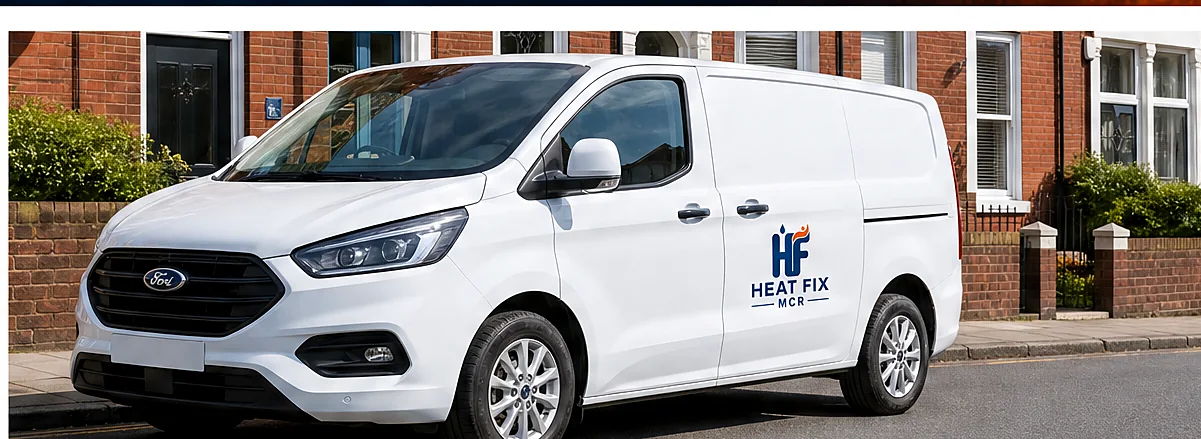
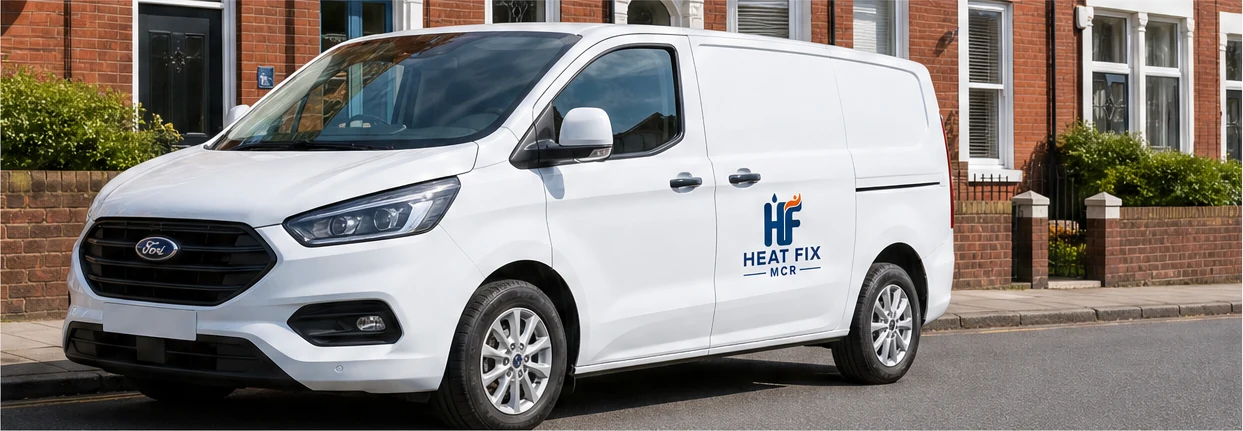
HeatFix: embers off the hero, About page rebuilt to the artwork
Three things he asked for.

1. "Book a slot online" is gone from the contact block on every page.

2. The embers are off the home hero. The photograph had the ember wash
   baked in, so it was corrected rather than swapped: per-column white
   balance measured off the flat kitchen wall, the sparks replaced from
   their surroundings, then the bloom taken out at two scales and what
   warmth remained capped to the level of the neutral wall. Red-over-blue
   on the right side goes from +57 to -5. The chrome towel rail keeps its
   definition — an earlier, harder pass flattened it and was thrown away.

3. About page rebuilt against the drawing, every band measured off it:
     - Ember band, WHO WE ARE, pill band and the navy block are within a
       few pixels of the heights drawn
     - The three pill icons are lifted straight out of his artwork with the
       white keyed to transparency, so the handshake is his handshake. It
       replaces the clock I had substituted when I could not draw one that
       read at that size
     - Van photograph re-cut from the artwork: no red bleed along the top,
       wheels no longer clipped, 2.88:1 as drawn
     - Figures are the four he drew: 15+ years, 4,000+ jobs, 5.0 stars,
       24/7 cover
     - The orange call band is gone; it is not in the drawing
     - On a phone the ember artwork now crops rather than shrinking, so the
       logo stays readable instead of collapsing to 100px
[…]

diff --git a/templates/heatfix-about.html b/templates/heatfix-about.html
@@ -29,7 +29,7 @@
 "address":{"@type":"PostalAddress","addressLocality":"Manchester","addressRegion":"Greater Manchester","addressCountry":"GB"}}
 </script>
 </head>
-<body>
+<body class="abx">
 <nav class="hfnav" id="nav">
   <div class="hfnav-in">
     <a class="hfbrand" href="/" aria-label="Heat Fix Mcr Limited — home">
@@ -76,7 +76,7 @@
         workmanship and service you can count on.</p>
     </div>
     <figure style="margin:0" data-fx="reveal" data-fx-delay="110">
-      <img src="../assets/heatfix/ab-van.webp" alt="The Heat Fix Mcr van parked outside a Manchester terrace" width="1201" height="439" loading="lazy">
+      <img src="../assets/heatfix/ab-van.webp" alt="The Heat Fix Mcr van parked outside a Manchester terrace" width="1243" height="431" loading="lazy">
     </figure>
   </div>
 </section>
@@ -84,15 +84,15 @@
 <div class="hfblue">
   <div class="wrap hfblue-in" data-fx="stagger" data-fx-step="70">
     <div class="hfpill">
-      <svg viewBox="0 0 48 48"><path d="M24 5l14 5v12c0 10-6.6 17-14 19-7.4-2-14-9-14-19V10z"/><path d="M24 17c-2.4 3.4-3.8 5-3.8 7.2a3.8 3.8 0 0 0 7.6 0c0-2.2-1.4-3.8-3.8-7.2z"/></svg>
+      <img src="../assets/heatfix/ic-gassafe.webp" alt="" width="172" height="290" loading="lazy">
       <span><b>Gas Safe</b><small>Every engineer fully registered</small></span>
     </div>
     <div class="hfpill">
-      <svg viewBox="0 0 48 48"><path d="M24 43s13-11.4 13-21a13 13 0 1 0-26 0c0 9.6 13 21 13 21z"/><circle cx="24" cy="21" r="5"/></svg>
+      <img src="../assets/heatfix/ic-local.webp" alt="" width="184" height="278" loading="lazy">
       <span><b>Local</b><small>Proudly Manchester, homegrown</small></span>
     </div>
     <div class="hfpill">
-      <svg viewBox="0 0 48 48"><circle cx="24" cy="24" r="17"/><path d="M24 14v10l7 4" stroke-linecap="round" stroke-linejoin="round"/></svg>
+      <img src="../assets/heatfix/ic-reliable.webp" alt="" width="288" height="242" loading="lazy">
       <span><b>Reliable</b><small>We turn up when we say</small></span>
     </div>
   </div>
@@ -100,17 +100,10 @@
 
 <div class="hfstats">
   <div class="wrap hfstats-in" data-fx="stagger" data-fx-step="60">
-    <div><b>627019</b><small>Gas Safe registered</small></div>
-    <div><b>61</b><small>Areas covered</small></div>
-    <div><b>Same day</b><small>Call-outs where we can</small></div>
-    <div><b>Fixed</b><small>Price agreed in writing</small></div>
-  </div>
-</div>
-
-<div class="hfband">
-  <div class="hfband-in">
-    <p>Boiler out, or something leaking? Get us out today.</p>
-    <a class="hfbtn navyfill" href="tel:+447890452629">Call 07890 452629</a>
+    <div><b>15+</b><small>Years experience</small></div>
+    <div><b>4,000+</b><small>Jobs completed</small></div>
+    <div><b>5.0</b><small>Star rating</small></div>
+    <div><b>24/7</b><small>Emergency cover</small></div>
   </div>
 </div>
 <footer class="hffoot">
@@ -118,7 +111,6 @@
     <b>Heat Fix Mcr Limited</b>
     <p>Gas Safe registered No. 627019 &nbsp;·&nbsp; Manchester &amp; Stockport &nbsp;·&nbsp;
       <a href="tel:+447890452629">07890 452629</a></p>
-    <img src="../assets/heatfix/logo-mark.webp" alt="" width="796" height="603" onerror="this.remove()">
   </div>
 </footer>
 <script>

diff --git a/assets/css/heatfix.css b/assets/css/heatfix.css
@@ -823,3 +823,43 @@ h3{font-size:clamp(1.15rem,2.4vw,1.5rem);letter-spacing:-.015em}
 .hffoot a{color:#bcd0e6}
 .hffoot a:hover{color:#fff}
 .hffoot img{width:78px;height:auto;margin:16px auto 0}
+
+/* ============================================================================
+   ABOUT — every dimension below is measured off the approved artwork at the
+   viewport it was drawn for (2336px wide artwork ≈ a 1440px screen).
+   Scoped to .abx so no other page moves.
+   ========================================================================== */
+.abx .hfember-band{padding-top:clamp(76px,7.1vw,102px)}
+.abx .hfember-txt{padding:clamp(4px,.42vw,6px) 26px clamp(7px,.56vw,8px)}
+.abx .hfember-txt h1{font-size:clamp(1.28rem,2.43vw,2.2rem);line-height:1;letter-spacing:-.01em}
+.abx .hfember-txt .kick{font-size:clamp(.86rem,1.11vw,1rem);margin-top:clamp(7px,.7vw,10px)}
+
+.abx .hfwho{padding:clamp(12px,1.05vw,15px) 0 clamp(8px,.7vw,10px)}
+.abx .hfwho-in{max-width:1440px;padding:0 clamp(20px,3.5vw,50px);gap:clamp(24px,2.8vw,40px);
+  align-items:start}
+@media(min-width:900px){.abx .hfwho-in{grid-template-columns:minmax(0,.707fr) minmax(0,1fr)}}
+.abx .hfwho > .hfwho-in > div:first-child{padding-top:clamp(18px,2.4vw,34px)}
+.abx .hfwho h2{font-size:clamp(1.6rem,3.12vw,2.8rem);margin:0}
+.abx .hfwho p{font-size:clamp(.95rem,1.18vw,1.06rem);line-height:1.6;margin-top:clamp(10px,1vw,14px);
+  max-width:46ch}
+.abx .hfwho figure img{aspect-ratio:2.883;object-fit:cover}
+
+.abx .hfblue{padding:clamp(10px,.85vw,12px) 0}
+.abx .hfblue-in{max-width:1440px;padding:0 clamp(20px,4.3vw,62px);gap:clamp(14px,4.3vw,62px)}
+.abx .hfpill{padding:clamp(10px,1.05vw,15px) clamp(14px,1.7vw,24px);gap:clamp(12px,1.5vw,21px);
+  min-height:clamp(64px,6.75vw,97px)}
+.abx .hfpill img{height:clamp(40px,4.6vw,66px);width:auto;flex:none;display:block}
+.abx .hfpill b{font-size:clamp(1.05rem,1.8vw,1.62rem);letter-spacing:-.005em}
+.abx .hfpill small{font-size:clamp(.8rem,.97vw,.875rem);margin-top:2px}
+
+.abx .hfstats{padding:clamp(10px,.9vw,13px) 0 0}
+.abx .hfstats b{font-size:clamp(1.5rem,3.47vw,3.12rem);line-height:1}
+.abx .hfstats small{font-size:clamp(.68rem,.97vw,.875rem);margin-top:clamp(3px,.28vw,4px)}
+.abx .hffoot{padding:clamp(12px,1.25vw,18px) 0 clamp(7px,.63vw,9px)}
+.abx .hffoot b{font-size:clamp(1.1rem,1.87vw,1.69rem);line-height:1.15}
+.abx .hffoot p{font-size:clamp(.9rem,1.18vw,1.06rem);margin-top:clamp(3px,.28vw,4px)}
+/* on a phone the artwork scales down to a 100px logo — crop instead of shrink */
+@media(max-width:760px){
+  .abx .hfember-top{height:clamp(150px,44vw,190px);object-fit:cover;object-position:center}
+  .abx .hfember-txt{padding-top:10px}
+}

diff --git a/templates/heatfixmcr.html b/templates/heatfixmcr.html
@@ -1052,7 +1052,6 @@ h1.hh em{font-style:normal;color:#7cc6f2}
         Call 07890 452629
       </a>
       <a class="btn ghost" href="https://wa.me/447890452629" target="_blank" rel="noopener">WhatsApp us</a>
-      <a class="btn ghost" href="/book">Book a slot online</a>
     </div>
   </div>
 </section>

diff --git a/templates/heatfix-blog-boiler-losing-pressure.html b/templates/heatfix-blog-boiler-losing-pressure.html
@@ -156,7 +156,6 @@
         Call 07890 452629
       </a>
       <a class="btn fire" href="/#quote">Get a free quote</a>
-      <a class="btn ghost" href="/book">Book a slot online</a>
     </div>
   </div>
 </section>

diff --git a/templates/heatfix-blog-cold-radiators.html b/templates/heatfix-blog-cold-radiators.html
@@ -156,7 +156,6 @@
         Call 07890 452629
       </a>
       <a class="btn fire" href="/#quote">Get a free quote</a>
-      <a class="btn ghost" href="/book">Book a slot online</a>
     </div>
   </div>
 </section>

diff --git a/templates/heatfix-blog-gas-cooker-rules.html b/templates/heatfix-blog-gas-cooker-rules.html
@@ -156,7 +156,6 @@
         Call 07890 452629
       </a>
       <a class="btn fire" href="/#quote">Get a free quote</a>
-      <a class="btn ghost" href="/book">Book a slot online</a>
     </div>
   </div>
 </section>

diff --git a/templates/heatfix-blog-limescale-hot-water.html b/templates/heatfix-blog-limescale-hot-water.html
@@ -156,7 +156,6 @@
         Call 07890 452629
       </a>
       <a class="btn fire" href="/#quote">Get a free quote</a>
-      <a class="btn ghost" href="/book">Book a slot online</a>
     </div>
   </div>
 </section>

diff --git a/templates/heatfix-blog.html b/templates/heatfix-blog.html
@@ -111,7 +111,6 @@
         Call 07890 452629
       </a>
       <a class="btn fire" href="/#quote">Get a free quote</a>
-      <a class="btn ghost" href="/book">Book a slot online</a>
     </div>
   </div>
 </section>

diff --git a/templates/heatfix-manufacturers-warranty.html b/templates/heatfix-manufacturers-warranty.html
@@ -128,7 +128,6 @@
         Call 07890 452629
       </a>
       <a class="btn fire" href="/#quote">Get a free quote</a>
-      <a class="btn ghost" href="/book">Book a slot online</a>
     </div>
   </div>
 </section>

diff --git a/templates/heatfix-privacy.html b/templates/heatfix-privacy.html
@@ -139,7 +139,6 @@
         Call 07890 452629
       </a>
       <a class="btn fire" href="/#quote">Get a free quote</a>
-      <a class="btn ghost" href="/book">Book a slot online</a>
     </div>
   </div>
 </section>

diff --git a/templates/heatfix-safety-tips.html b/templates/heatfix-safety-tips.html
@@ -143,7 +143,6 @@
         Call 07890 452629
       </a>
       <a class="btn fire" href="/#quote">Get a free quote</a>
-      <a class="btn ghost" href="/book">Book a slot online</a>
     </div>
   </div>
 </section>

diff --git a/templates/heatfix-terms.html b/templates/heatfix-terms.html
@@ -164,7 +164,6 @@
         Call 07890 452629
       </a>
       <a class="btn fire" href="/#quote">Get a free quote</a>
-      <a class="btn ghost" href="/book">Book a slot online</a>
     </div>
   </div>
 </section>
